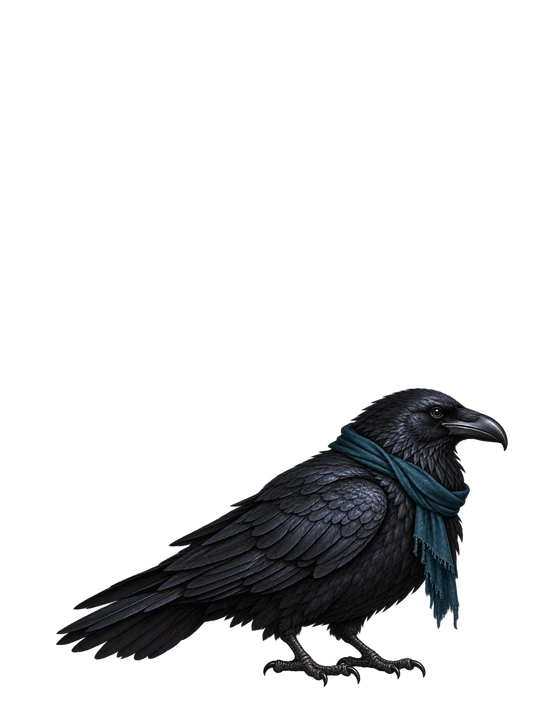
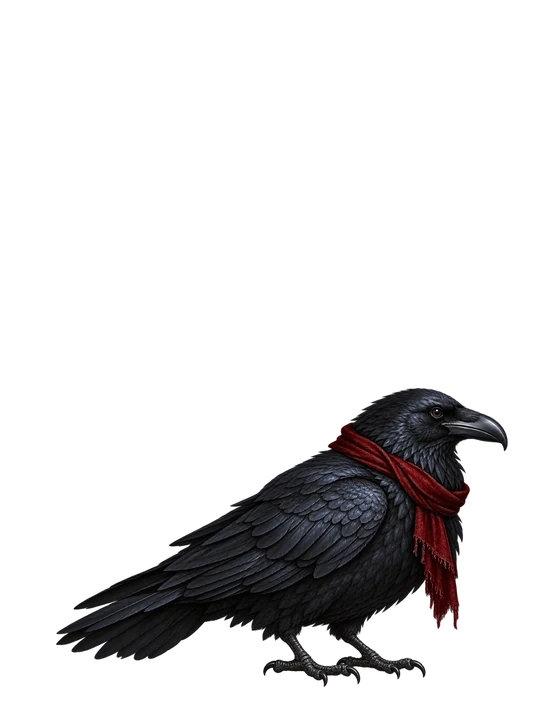
Polish animation timing and raven scarf art

Changed region(s): [[0.5893, 0.5773, 0.884, 0.8812]]

diff --git a/style.css b/style.css
@@ -78,11 +78,6 @@ button:focus-visible { outline: 3px solid #fff; outline-offset: 3px; }
 .card-initial { display: grid; place-items: center; width: 43px; aspect-ratio: 1; border-radius: 14px; color: #0d1020; background: var(--accent); font-size: 1.35rem; font-weight: 950; }
 .card-age { color: var(--muted); font-size: .7rem; font-weight: 800; text-transform: uppercase; letter-spacing: .1em; }
 .form-art { position: absolute; inset: 55px 5% 83px; background-image: var(--human-image); background-repeat: no-repeat; background-size: contain; background-position: center; filter: drop-shadow(0 18px 12px rgba(0,0,0,.36)); transition: opacity .2s, transform .5s; }
-/* Keep the raven's scarf red on the selection card as well as in the game canvas. */
-.character-card.flight[data-id="A"] .form-art::before,
-.character-card.flight[data-id="A"] .form-art::after { content: ""; position: absolute; z-index: 1; background: #d9273f; filter: drop-shadow(0 2px 2px rgba(0,0,0,.38)); pointer-events: none; }
-.character-card.flight[data-id="A"] .form-art::before { left: 61%; top: 61%; width: 19%; height: 6%; border-radius: 45% 30% 40% 35%; transform: rotate(22deg); clip-path: polygon(0 22%, 100% 0, 91% 100%, 14% 82%); }
-.character-card.flight[data-id="A"] .form-art::after { left: 70%; top: 65%; width: 7%; height: 17%; border-radius: 45% 35% 52% 38%; transform: rotate(-7deg); clip-path: polygon(0 0, 100% 5%, 82% 100%, 20% 79%); }
 .character-card.flight .form-art { background-image: var(--flight-image); }
 .character-card.chaos .form-art { background-image: var(--chaos-image); transform: scale(1.02); }
 .character-card.flight[data-id="A"] .form-art { transform: scale(1.28); }

diff --git a/game.js b/game.js
@@ -36,7 +36,7 @@ const PEOPLE = {
 };
 
 const order = ["C", "A", "S", "E"];
-const ART_REVISION = "case-20261004-9";
+const ART_REVISION = "case-20261004-10";
 for (const person of Object.values(PEOPLE)) {
   for (const key of Object.keys(person.art)) person.art[key] += `?v=${ART_REVISION}`;
 }

diff --git a/index.html b/index.html
@@ -75,6 +75,6 @@
     </section>
   </main>
 
-  <script src="game.js?v=case-20261004-9"></script>
+  <script src="game.js?v=case-20261004-10"></script>
 </body>
 </html>
